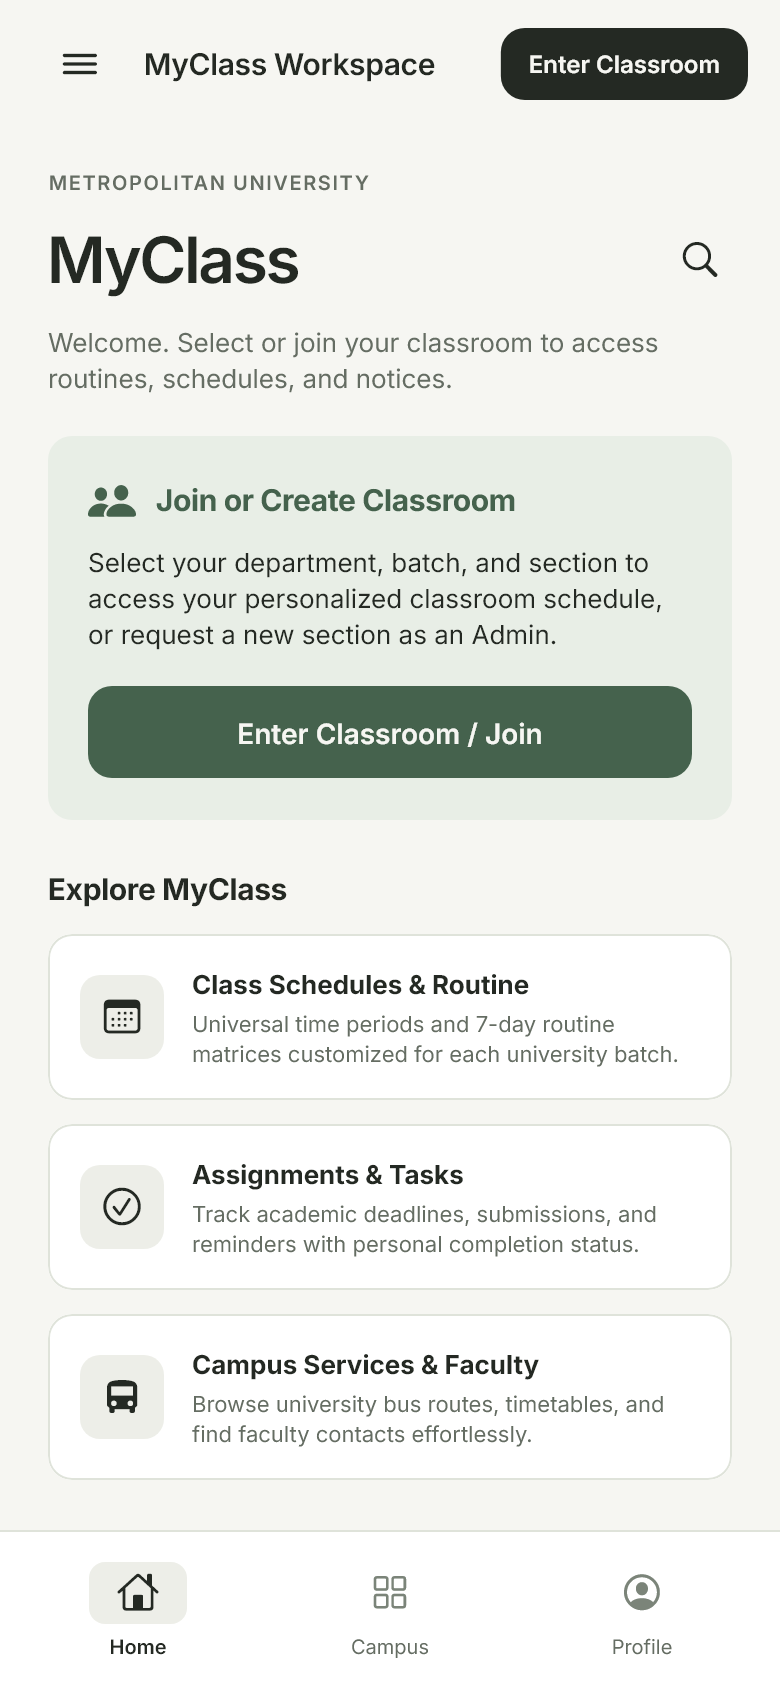
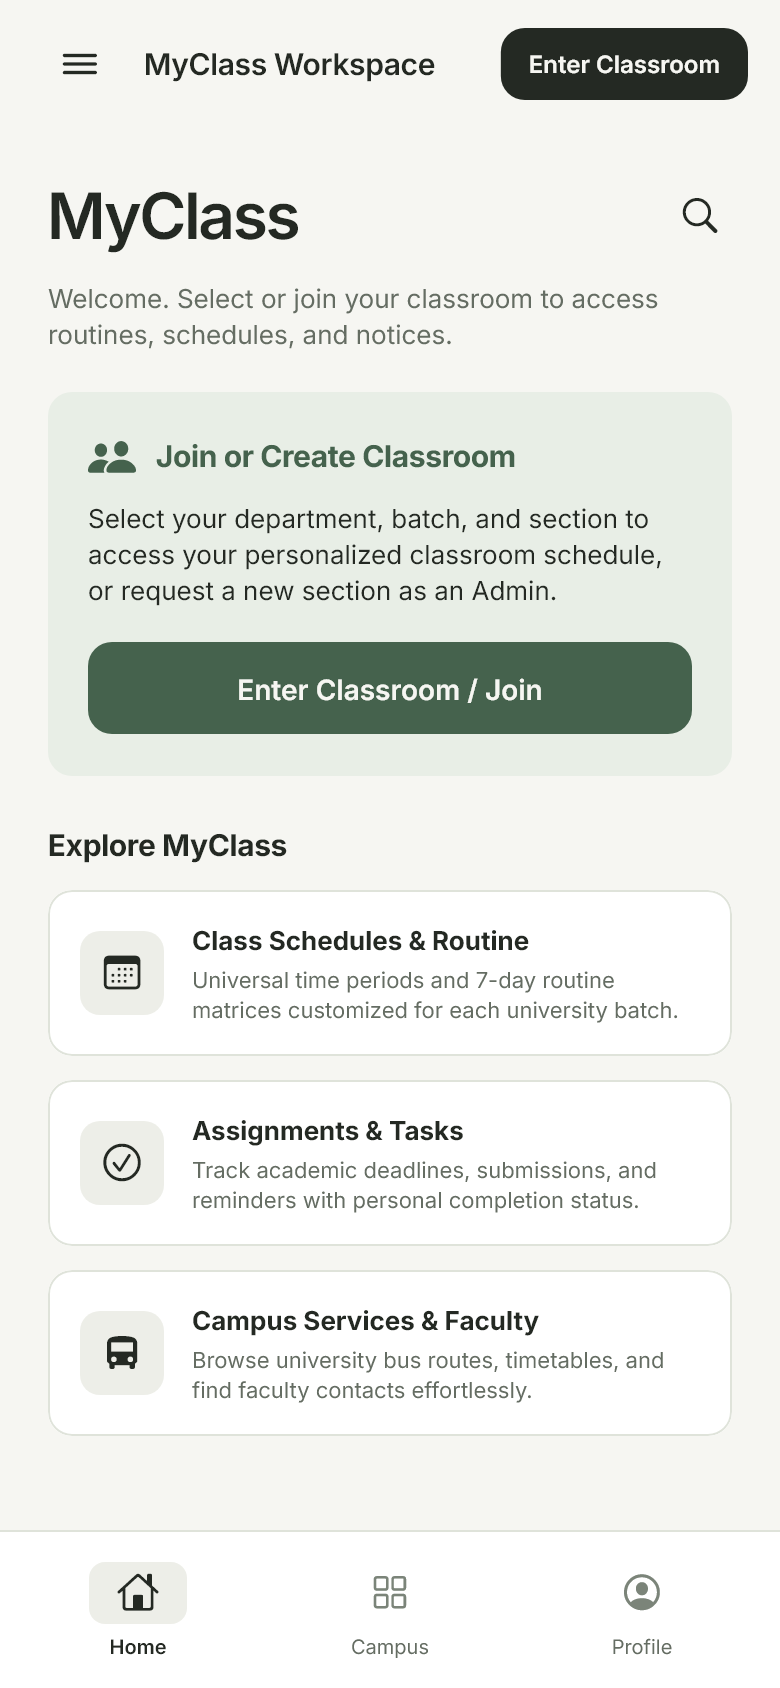
Remove hardcoded Metropolitan University, fix keyboard scrolling, and rename old project identifiers to MyClass

diff --git a/lib/features/auth/views/section_entry_sheet.dart b/lib/features/auth/views/section_entry_sheet.dart
@@ -422,6 +422,8 @@ class _SectionEntrySheetState extends State<SectionEntrySheet> {
   Widget build(BuildContext context) {
     final c = context.colors;
     final bottomInset = MediaQuery.viewInsetsOf(context).bottom;
+    final screenHeight = MediaQuery.sizeOf(context).height;
+    final availableHeight = screenHeight - bottomInset;
 
     return AnimatedPadding(
       padding: EdgeInsets.only(bottom: bottomInset),
@@ -429,9 +431,11 @@ class _SectionEntrySheetState extends State<SectionEntrySheet> {
       curve: Motion.curve,
       child: Container(
         constraints: BoxConstraints(
-          maxHeight: MediaQuery.sizeOf(context).height * 0.90,
+          maxHeight: bottomInset > 0
+              ? (availableHeight > 240 ? availableHeight - 16 : availableHeight)
+              : screenHeight * 0.90,
         ),
-        padding: const EdgeInsets.fromLTRB(24, 8, 24, 24),
+        padding: const EdgeInsets.fromLTRB(24, 8, 24, 16),
         child: Column(
           mainAxisSize: MainAxisSize.min,
           crossAxisAlignment: CrossAxisAlignment.start,
@@ -476,7 +480,9 @@ class _SectionEntrySheetState extends State<SectionEntrySheet> {
             ],
             Expanded(
               child: SingleChildScrollView(
+                physics: const AlwaysScrollableScrollPhysics(parent: BouncingScrollPhysics()),
                 keyboardDismissBehavior: ScrollViewKeyboardDismissBehavior.onDrag,
+                padding: const EdgeInsets.only(bottom: 40),
                 child: switch (tabIndex) {
                   0 => _buildJoinTab(c),
                   1 => _buildCreateTab(c),
@@ -490,7 +496,7 @@ class _SectionEntrySheetState extends State<SectionEntrySheet> {
     );
   }
 
-  Widget _buildJoinTab(AulaColors c) {
+  Widget _buildJoinTab(MyClassColors c) {
     if (loadingData && universities.isEmpty) {
       return const Padding(
         padding: EdgeInsets.all(32),
@@ -784,7 +790,7 @@ class _SectionEntrySheetState extends State<SectionEntrySheet> {
     );
   }
 
-  Widget _buildCreateTab(AulaColors c) {
+  Widget _buildCreateTab(MyClassColors c) {
     if (createSuccess) {
       return Padding(
         padding: const EdgeInsets.symmetric(vertical: 24),
@@ -1010,7 +1016,7 @@ class _SectionEntrySheetState extends State<SectionEntrySheet> {
     );
   }
 
-  Widget _buildOwnerTab(AulaColors c) {
+  Widget _buildOwnerTab(MyClassColors c) {
     return Column(
       crossAxisAlignment: CrossAxisAlignment.start,
       children: [
@@ -1086,6 +1092,8 @@ class _UniversitySearchSheetState extends State<_UniversitySearchSheet> {
   Widget build(BuildContext context) {
     final c = context.colors;
     final bottomInset = MediaQuery.viewInsetsOf(context).bottom;
+    final screenHeight = MediaQuery.sizeOf(context).height;
+    final availableHeight = screenHeight - bottomInset;
     final filtered = widget.universities.where((u) {
       if (_query.isEmpty) return true;
       final q = _query.toLowerCase().trim();
@@ -1098,9 +1106,11 @@ class _UniversitySearchSheetState extends State<_UniversitySearchSheet> {
       curve: Motion.curve,
       child: Container(
         constraints: BoxConstraints(
-          maxHeight: MediaQuery.sizeOf(context).height * 0.85,
+          maxHeight: bottomInset > 0
+              ? (availableHeight > 240 ? availableHeight - 16 : availableHeight)
+              : screenHeight * 0.85,
         ),
-        padding: const EdgeInsets.fromLTRB(20, 16, 20, 24),
+        padding: const EdgeInsets.fromLTRB(20, 16, 20, 16),
         child: Column(
           crossAxisAlignment: CrossAxisAlignment.start,
           children: [

diff --git a/lib/design_system/tokens.dart b/lib/design_system/tokens.dart
@@ -27,8 +27,8 @@ abstract final class Metrics {
 }
 
 @immutable
-class AulaColors extends ThemeExtension<AulaColors> {
-  const AulaColors({
+class MyClassColors extends ThemeExtension<MyClassColors> {
+  const MyClassColors({
     required this.canvas,
     required this.surface,
     required this.subtle,
@@ -62,7 +62,7 @@ class AulaColors extends ThemeExtension<AulaColors> {
       amberBg,
       red,
       redBg;
-  static const light = AulaColors(
+  static const light = MyClassColors(
     canvas: Color(0xFFF6F6F2),
     surface: Color(0xFFFFFFFF),
     subtle: Color(0xFFEDEEE8),
@@ -80,7 +80,7 @@ class AulaColors extends ThemeExtension<AulaColors> {
     red: Color(0xFF9B5047),
     redBg: Color(0xFFF4E7E2),
   );
-  static const dark = AulaColors(
+  static const dark = MyClassColors(
     canvas: Color(0xFF101410),
     surface: Color(0xFF1B201B),
     subtle: Color(0xFF252D25),
@@ -99,12 +99,12 @@ class AulaColors extends ThemeExtension<AulaColors> {
     redBg: Color(0xFF3B2926),
   );
   @override
-  AulaColors copyWith() => this;
+  MyClassColors copyWith() => this;
   @override
-  AulaColors lerp(covariant AulaColors? other, double t) {
+  MyClassColors lerp(covariant MyClassColors? other, double t) {
     if (other == null) return this;
     Color l(Color a, Color b) => Color.lerp(a, b, t)!;
-    return AulaColors(
+    return MyClassColors(
       canvas: l(canvas, other.canvas),
       surface: l(surface, other.surface),
       subtle: l(subtle, other.subtle),
@@ -125,14 +125,16 @@ class AulaColors extends ThemeExtension<AulaColors> {
   }
 }
 
+typedef AulaColors = MyClassColors;
+
 extension DesignContext on BuildContext {
-  AulaColors get colors => Theme.of(this).extension<AulaColors>()!;
+  MyClassColors get colors => Theme.of(this).extension<MyClassColors>()!;
   TextTheme get type => Theme.of(this).textTheme;
   bool get wide => MediaQuery.sizeOf(this).width >= 720;
 }
 
-ThemeData aulaTheme(Brightness brightness) {
-  final c = brightness == Brightness.dark ? AulaColors.dark : AulaColors.light;
+ThemeData myClassTheme(Brightness brightness) {
+  final c = brightness == Brightness.dark ? MyClassColors.dark : MyClassColors.light;
   TextStyle style(
     double size,
     FontWeight weight, {
@@ -262,3 +264,5 @@ ThemeData aulaTheme(Brightness brightness) {
     ),
   );
 }
+
+ThemeData aulaTheme(Brightness brightness) => myClassTheme(brightness);

diff --git a/test/domain_behavior_test.dart b/test/domain_behavior_test.dart
@@ -1,20 +1,20 @@
 import 'package:flutter_test/flutter_test.dart';
-import 'package:sami_p/core/models.dart';
-import 'package:sami_p/core/clock.dart';
-import 'package:sami_p/demo/demo_controller.dart';
-import 'package:sami_p/demo/mock_store.dart';
-import 'package:sami_p/demo/mock_academic_structure_repository.dart';
-import 'package:sami_p/demo/mock_event_repository.dart';
-import 'package:sami_p/demo/mock_personal_repositories.dart';
-import 'package:sami_p/demo/mock_schedule_repository.dart';
-import 'package:sami_p/demo/mock_search_repository.dart';
-import 'package:sami_p/demo/fixtures.dart';
-import 'package:sami_p/features/home/models/agenda_projection.dart';
-import 'package:sami_p/features/section_admin/bloc/event_editor_bloc.dart';
-import 'package:sami_p/features/search/bloc/search_bloc.dart';
-import 'package:sami_p/features/tasks/models/task_projection.dart';
-import 'package:sami_p/features/tasks/bloc/tasks_bloc.dart';
-import 'package:sami_p/features/schedule/bloc/schedule_bloc.dart';
+import 'package:myclass/core/models.dart';
+import 'package:myclass/core/clock.dart';
+import 'package:myclass/demo/demo_controller.dart';
+import 'package:myclass/demo/mock_store.dart';
+import 'package:myclass/demo/mock_academic_structure_repository.dart';
+import 'package:myclass/demo/mock_event_repository.dart';
+import 'package:myclass/demo/mock_personal_repositories.dart';
+import 'package:myclass/demo/mock_schedule_repository.dart';
+import 'package:myclass/demo/mock_search_repository.dart';
+import 'package:myclass/demo/fixtures.dart';
+import 'package:myclass/features/home/models/agenda_projection.dart';
+import 'package:myclass/features/section_admin/bloc/event_editor_bloc.dart';
+import 'package:myclass/features/search/bloc/search_bloc.dart';
+import 'package:myclass/features/tasks/models/task_projection.dart';
+import 'package:myclass/features/tasks/bloc/tasks_bloc.dart';
+import 'package:myclass/features/schedule/bloc/schedule_bloc.dart';
 import 'support/harness.dart';
 
 void main() {
@@ -38,7 +38,7 @@ void main() {
         repo.verifyAccess(section, 'wrong'),
         throwsA(isA<AppFailure>()),
       );
-      final grant = await repo.verifyAccess(section, ' aula64 ');
+      final grant = await repo.verifyAccess(section, ' myclass64 ');
       expect(grant.sectionId, section);
       expect(grant.token, 'mock-opaque-grant');
     },

diff --git a/test/interaction_test.dart b/test/interaction_test.dart
@@ -1,20 +1,20 @@
 import 'package:flutter/material.dart';
 import 'package:flutter_bloc/flutter_bloc.dart';
 import 'package:flutter_test/flutter_test.dart';
-import 'package:sami_p/core/models.dart';
-import 'package:sami_p/shared/workspace_shell.dart';
-import 'package:sami_p/features/events/bloc/events_bloc.dart';
-import 'package:sami_p/features/events/views/event_detail_page.dart';
-import 'package:sami_p/features/notes/bloc/notes_bloc.dart';
-import 'package:sami_p/features/profile/bloc/profile_bloc.dart';
-import 'package:sami_p/features/tasks/bloc/tasks_bloc.dart';
-import 'package:sami_p/features/schedule/bloc/schedule_bloc.dart';
-import 'package:sami_p/features/section_admin/views/event_editor_page.dart';
-import 'package:sami_p/features/campus/views/faculty_page.dart';
-import 'package:sami_p/features/campus/views/bus_page.dart';
-import 'package:sami_p/features/home/views/home_page.dart';
-import 'package:sami_p/demo/demo_controller.dart';
-import 'package:sami_p/demo/fixtures.dart';
+import 'package:myclass/core/models.dart';
+import 'package:myclass/shared/workspace_shell.dart';
+import 'package:myclass/features/events/bloc/events_bloc.dart';
+import 'package:myclass/features/events/views/event_detail_page.dart';
+import 'package:myclass/features/notes/bloc/notes_bloc.dart';
+import 'package:myclass/features/profile/bloc/profile_bloc.dart';
+import 'package:myclass/features/tasks/bloc/tasks_bloc.dart';
+import 'package:myclass/features/schedule/bloc/schedule_bloc.dart';
+import 'package:myclass/features/section_admin/views/event_editor_page.dart';
+import 'package:myclass/features/campus/views/faculty_page.dart';
+import 'package:myclass/features/campus/views/bus_page.dart';
+import 'package:myclass/features/home/views/home_page.dart';
+import 'package:myclass/demo/demo_controller.dart';
+import 'package:myclass/demo/fixtures.dart';
 import 'support/harness.dart';
 
 void main() {

diff --git a/test/visual_journey_test.dart b/test/visual_journey_test.dart
@@ -1,15 +1,15 @@
 import 'package:flutter/material.dart';
 import 'package:flutter_test/flutter_test.dart';
-import 'package:sami_p/core/models.dart';
-import 'package:sami_p/features/events/views/event_detail_page.dart';
-import 'package:sami_p/features/campus/views/bus_page.dart';
-import 'package:sami_p/features/campus/views/faculty_page.dart';
-import 'package:sami_p/features/schedule/views/routine_page.dart';
-import 'package:sami_p/features/profile/views/notification_page.dart';
-import 'package:sami_p/features/notes/views/notes_page.dart';
-import 'package:sami_p/features/section_admin/views/event_editor_page.dart';
-import 'package:sami_p/features/search/views/search_page.dart';
-import 'package:sami_p/demo/fixtures.dart';
+import 'package:myclass/core/models.dart';
+import 'package:myclass/features/events/views/event_detail_page.dart';
+import 'package:myclass/features/campus/views/bus_page.dart';
+import 'package:myclass/features/campus/views/faculty_page.dart';
+import 'package:myclass/features/schedule/views/routine_page.dart';
+import 'package:myclass/features/profile/views/notification_page.dart';
+import 'package:myclass/features/notes/views/notes_page.dart';
+import 'package:myclass/features/section_admin/views/event_editor_page.dart';
+import 'package:myclass/features/search/views/search_page.dart';
+import 'package:myclass/demo/fixtures.dart';
 import 'support/harness.dart';
 
 void main() {

diff --git a/test/support/harness.dart b/test/support/harness.dart
@@ -6,10 +6,10 @@ import 'package:flutter/rendering.dart';
 import 'package:flutter/services.dart';
 import 'package:flutter_test/flutter_test.dart';
 import 'package:shared_preferences/shared_preferences.dart';
-import 'package:sami_p/app.dart';
-import 'package:sami_p/core/dependencies.dart';
-import 'package:sami_p/core/models.dart';
-import 'package:sami_p/shared/workspace_shell.dart';
+import 'package:myclass/app.dart';
+import 'package:myclass/core/dependencies.dart';
+import 'package:myclass/core/models.dart';
+import 'package:myclass/shared/workspace_shell.dart';
 
 UserProfile sampleProfile({
   UserRole role = UserRole.student,
@@ -63,8 +63,8 @@ Future<AppDependencies> boot(
   SharedPreferences.setMockInitialValues(
     signedIn
         ? {
-            'aula.signedIn': true,
-            'aula.profile.demo-student': jsonEncode(
+            'myclass.signedIn': true,
+            'myclass.profile.demo-student': jsonEncode(
               sampleProfile(role: role, appearance: appearance).toJson(),
             ),
           }
@@ -75,7 +75,7 @@ Future<AppDependencies> boot(
   await tester.pumpWidget(
     RepaintBoundary(
       key: const Key('capture'),
-      child: AulaApp(dependencies: d),
+      child: MyClassApp(dependencies: d),
     ),
   );
   await settle(tester);

diff --git a/lib/demo/mock_personal_repositories.dart b/lib/demo/mock_personal_repositories.dart
@@ -12,11 +12,13 @@ class MockProfileRepository implements ProfileRepository {
   Future<UserProfile?> load(String uid) async {
     await store.delay();
     if (store.profile != null) return store.profile;
-    final raw = preferences.getString('aula.profile.$uid');
+    final raw = preferences.getString('myclass.profile.$uid') ??
+        preferences.getString('aula.profile.$uid');
     if (raw != null) {
       try {
         store.profile = UserProfile.fromJson(jsonDecode(raw));
       } catch (_) {
+        await preferences.remove('myclass.profile.$uid');
         await preferences.remove('aula.profile.$uid');
       }
     }
@@ -40,7 +42,7 @@ class MockProfileRepository implements ProfileRepository {
     }
     store.profile = profile;
     await preferences.setString(
-      'aula.profile.${profile.uid}',
+      'myclass.profile.${profile.uid}',
       jsonEncode(profile.toJson()),
     );
     store.notify();

diff --git a/lib/demo/mock_auth_repository.dart b/lib/demo/mock_auth_repository.dart
@@ -6,18 +6,19 @@ class MockAuthRepository implements AuthRepository {
   final SharedPreferences preferences;
   @override
   Future<AuthIdentity?> restore() async =>
-      preferences.getBool('aula.signedIn') == true
+      (preferences.getBool('myclass.signedIn') ?? preferences.getBool('aula.signedIn')) == true
       ? const AuthIdentity('demo-student', 'student@example.edu')
       : null;
   @override
   Future<AuthIdentity> signInWithGoogle() async {
     await Future<void>.delayed(const Duration(milliseconds: 600));
-    await preferences.setBool('aula.signedIn', true);
+    await preferences.setBool('myclass.signedIn', true);
     return const AuthIdentity('demo-student', 'student@example.edu');
   }
 
   @override
   Future<void> signOut() async {
+    await preferences.setBool('myclass.signedIn', false);
     await preferences.setBool('aula.signedIn', false);
   }
 }

diff --git a/lib/features/onboarding/views/onboarding_page.dart b/lib/features/onboarding/views/onboarding_page.dart
@@ -239,15 +239,6 @@ class _OnboardingPageState extends State<OnboardingPage> {
                     color: context.colors.secondary,
                   ),
                 ),
-                const SizedBox(height: 20),
-                const Divider(),
-                const SizedBox(height: 16),
-                Text(
-                  'Metropolitan University',
-                  style: context.type.bodyMedium?.copyWith(
-                    color: context.colors.secondary,
-                  ),
-                ),
               ],
             ),
           ),

diff --git a/lib/app.dart b/lib/app.dart
@@ -140,8 +140,8 @@ class _Workspace extends StatelessWidget {
         builder: (context, s) => MaterialApp(
           title: 'MyClass',
           debugShowCheckedModeBanner: false,
-          theme: aulaTheme(Brightness.light),
-          darkTheme: aulaTheme(Brightness.dark),
+          theme: myClassTheme(Brightness.light),
+          darkTheme: myClassTheme(Brightness.dark),
           themeMode: switch (s.profile.appearance) {
             Appearance.system => ThemeMode.system,
             Appearance.light => ThemeMode.light,

diff --git a/lib/features/section_admin/views/set_routine_page.dart b/lib/features/section_admin/views/set_routine_page.dart
@@ -126,6 +126,7 @@ class _SetRoutinePageState extends State<SetRoutinePage> {
                   const SizedBox(height: 6),
                   TextField(
                     controller: roomController,
+                    scrollPadding: const EdgeInsets.only(bottom: 100),
                     decoration: const InputDecoration(
                       hintText: 'e.g. 402 or Lab 2',
                       prefixIcon: Icon(CupertinoIcons.location, size: 18),

diff --git a/lib/features/search/views/search_page.dart b/lib/features/search/views/search_page.dart
@@ -50,6 +50,7 @@ class _SearchPageState extends State<SearchPage> {
           TextField(
             controller: controller,
             autofocus: true,
+            scrollPadding: const EdgeInsets.only(bottom: 100),
             onChanged: (v) =>
                 context.read<SearchBloc>().add(SearchQueryChanged(v)),
             decoration: InputDecoration(
